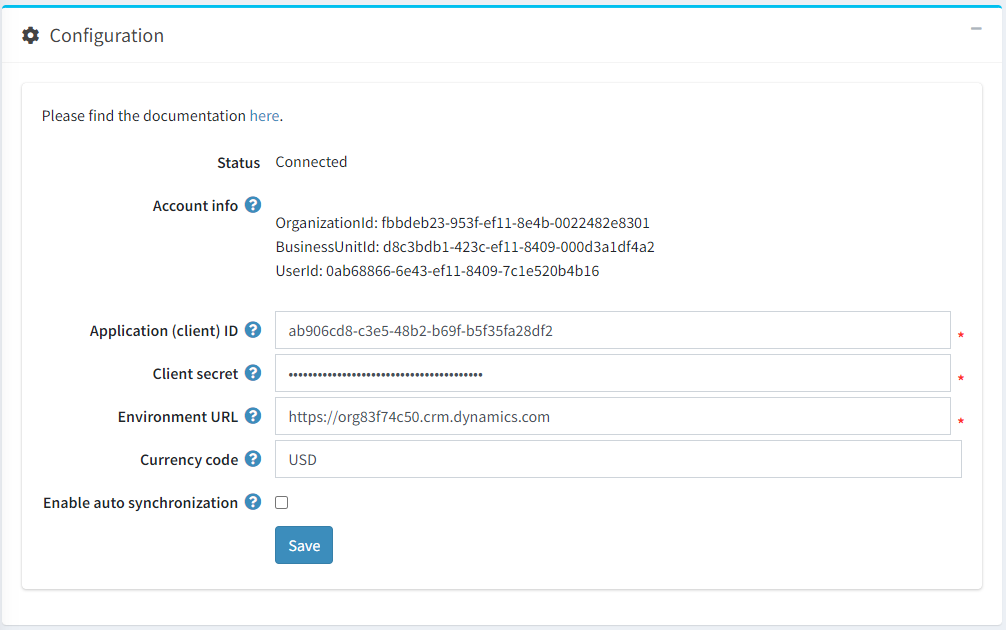
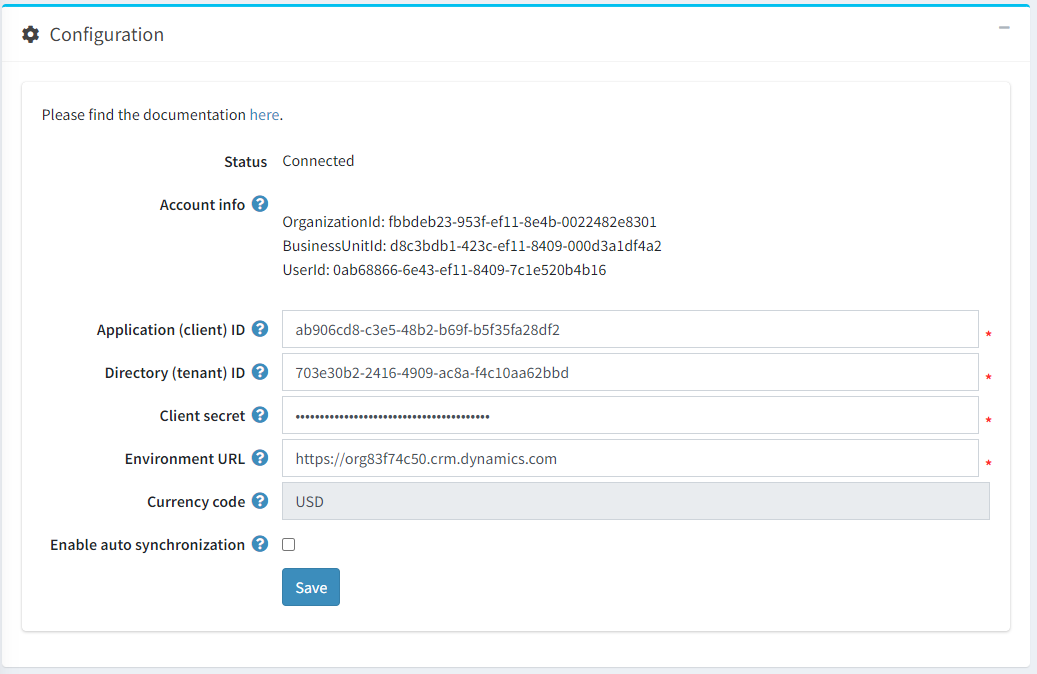
Update ms-dynamics-365

diff --git a/en/developer/ms-dynamics-365/index.md b/en/developer/ms-dynamics-365/index.md
@@ -15,7 +15,7 @@ Please get the official integration with Dynamics 365 [here](https://www.nopcomm
 
 ## What the Dynamics 365 plugin does
 
-Dynamics 365 plugin for nopCommerce allows the store owner to synchronize the following data between your nopCommerce store and Dynamics 365:
+The Dynamics 365 plugin for nopCommerce allows the store owner to unidirectionally synchronise the following data between your nopCommerce store and Dynamics 365:
 
 - Customers.
 - Products.
@@ -70,7 +70,7 @@ Registering your application establishes a trust relationship between your app a
 
 ### Configure application
 
-1. On the **Overview** page under **Essentials**, select the **Add a Redirect URI link**. Set the redirect URI by first selecting **Add a platform**, entering a URI value, and then selecting **Configure**. Use a URI value of "<http://localhost>".
+1. On the **Overview** page under **Essentials**, select the **Add a Redirect URI link**. Set the redirect URI by first selecting **Add a platform**, entering a URI value, and then selecting **Configure**. Use a URI value of `http://localhost`.
 1. On the **Overview** page of your newly created app, hover the cursor over the **Application (client) ID** value, and select the copy to clipboard icon to copy the ID value. Record the value somewhere. You need to specify this value later.
 1. Add credentials. Credentials allow your application to authenticate as itself, requiring no interaction from a user at runtime.
 
@@ -257,9 +257,12 @@ Click the **Configure** button. You will see the *Configure - Dynamics 365* wind
 To use Dynamics 365 with nopCommerce, you will first need to register and set up your account in MS Dynamics 365 as described earlier and enter all the necessary settings in the fields on the plugin configuration form:
 
 - **Application (client) ID**. The registered client ID on Azure portal.
+- **Directory (tenant) ID**. The registered tenat ID on Azure portal.
 - **Client secret**. Client secret for Application ID. A secret string that the application uses to prove its identity when requesting a token.
 - **Environment URL**. Direct URL of Dataverse instance to connect too.
 - **Currency code**. Displays the primary currency code of the your store.
+    > [!NOTE]
+    > If you change the primary currency of the store, the plugin settings will be updated only after you save them.
 - **Enable auto synchronization**. Determine whether to enable auto synchronization. If disabled, synchronization must be started manually on this page.
 - **Auto synchronization period**. Set the period (in minutes) for auto synchronization.
 
